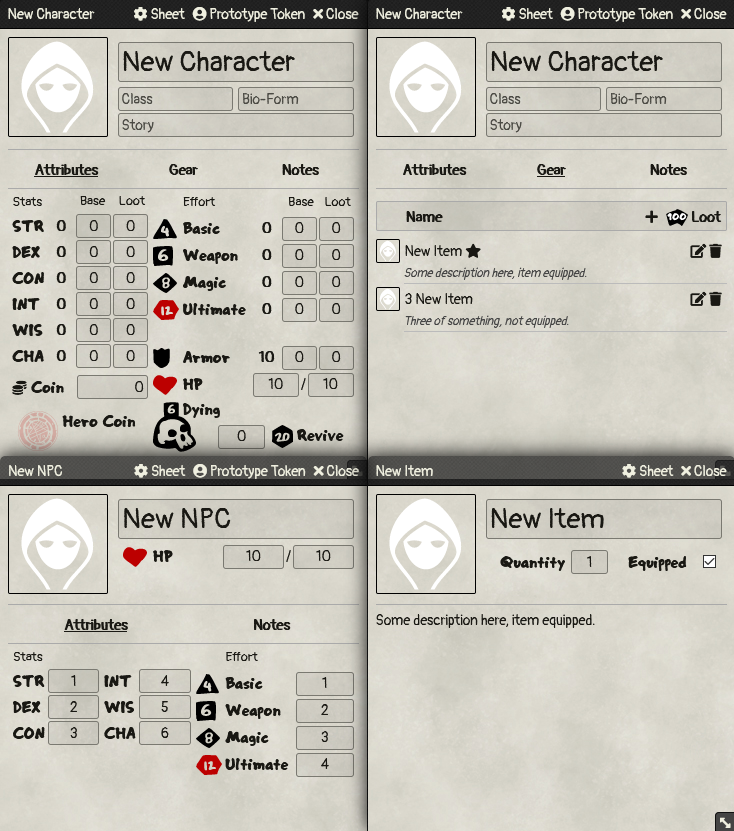
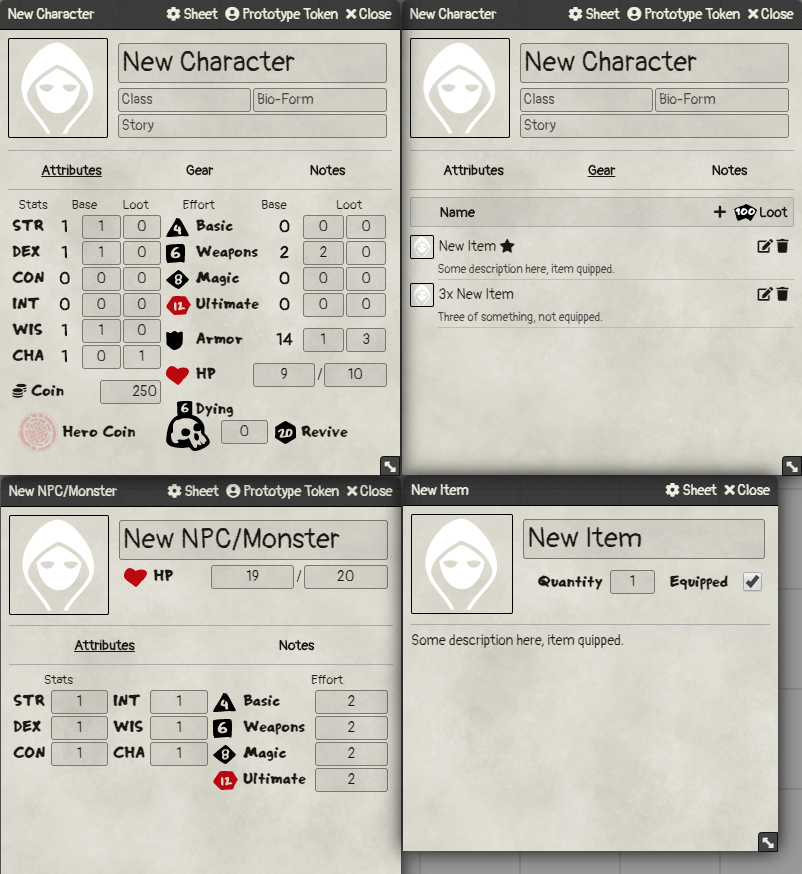
Changed minimum actor sheet width to 400 to fit translations

Changed region(s): [[0.0, 0.0, 1.0, 1.0]]

diff --git a/templates/actor/character-sheet.html b/templates/actor/character-sheet.html
@@ -1,4 +1,4 @@
-<form class="{{cssClass}} type-character" autocomplete="off">
+<form class="{{cssClass}} character-form" autocomplete="off">
 
     {{!-- Sheet Header --}}
     <header class="sheet-header">
@@ -33,7 +33,7 @@
                 <div class="resources">
 
                     {{!-- Header --}}
-                    <div class="resource stat resource-header">
+                    <div class="resource resource-header">
                         <span class="header">{{localize "ICRPG.Stats"}}</span>
                         <span class="header">{{localize "ICRPG.Base"}}</span>
                         <span class="header">{{localize "ICRPG.Loot"}}</span>
@@ -59,13 +59,13 @@
                     {{/each}}
 
                     {{!-- Header --}}
-                    <div class="resource health resource-header">
-                        <span class="header"></span> <!--{{localize "ICRPG.Coin"}}-->
+                    <div class="resource resource-header">
+                        <span class="header"><!--{{localize "ICRPG.Resources"}}--></span>
                     </div>
 
                     {{!-- Coin --}}
                     <div class="resource coin">
-                        <label for="data.coin.value" class="resource-label"><!--<i class="fa fa-coins"></i>-->
+                        <label for="data.coin.value" class="resource-label"><i class="fa fa-coins"></i>
                             {{localize "ICRPG.Coin"}}</label>
                         <input type="text" name="data.coin.value" value="{{data.coin.value}}" data-dtype="Number" />
                     </div>
@@ -82,27 +82,10 @@
                 <div class="resources">
 
                     {{!-- Header --}}
-                    <div class="resource armor resource-header">
-                        <span class="header"></span> <!--{{localize "ICRPG.Armor"}}-->
+                    <div class="resource resource-header">
+                        <span class="header">{{localize "ICRPG.Effort"}}</span>
                         <span class="header">{{localize "ICRPG.Base"}}</span>
                         <span class="header">{{localize "ICRPG.Loot"}}</span>
-                    </div>
-
-                    {{!-- Armor --}}
-                    <div class="resource armor">
-                        <label for="data.armor.value" class="resource-label"> {{localize "ICRPG.Armor"}} </label>
-                        <div class="resource-content flexrow flex-center flex-between">
-                            <span class="value">{{data.armor.value}}</span>
-                            <input type="text" name="data.armor.base" value="{{data.armor.base}}" data-dtype="Number" />
-                            <input type="text" name="data.armor.loot" value="{{data.armor.loot}}" data-dtype="Number" />
-                        </div>
-                    </div>
-
-                    {{!-- Header --}}
-                    <div class="resource effort resource-header">
-                        <span class="header">{{localize "ICRPG.Effort"}}</span>
-                        <span class="header"></span> <!--{{localize "ICRPG.Base"}}-->
-                        <span class="header"></span> <!--{{localize "ICRPG.Loot"}}-->
                     </div>
 
                     {{!-- Effort --}}
@@ -125,8 +108,23 @@
                     {{/each}}
 
                     {{!-- Header --}}
-                    <div class="resource health resource-header">
-                        <span class="header"></span> <!--{{localize "ICRPG.Health"}}-->
+                    <div class="resource resource-header">
+                        <span class="header"><!--{{localize "ICRPG.Armor"}}--></span>
+                    </div>
+
+                    {{!-- Armor --}}
+                    <div class="resource armor">
+                        <label for="data.armor.value" class="resource-label"> {{localize "ICRPG.Armor"}} </label>
+                        <div class="resource-content flexrow flex-center flex-between">
+                            <span class="value">{{data.armor.value}}</span>
+                            <input type="text" name="data.armor.base" value="{{data.armor.base}}" data-dtype="Number" />
+                            <input type="text" name="data.armor.loot" value="{{data.armor.loot}}" data-dtype="Number" />
+                        </div>
+                    </div>
+
+                    {{!-- Header --}}
+                    <div class="resource resource-header">
+                        <span class="header"><!--{{localize "ICRPG.Health"}}--></span>
                     </div>
 
                     {{!-- HP --}}
@@ -140,6 +138,11 @@
                         </div>
                     </div>
 
+                    {{!-- Header --}}
+                    <div class="resource resource-header">
+                        <span class="header"><!--{{localize "ICRPG.Death"}}--></span>
+                    </div>
+                    
                     {{!-- Death --}}
                     <div class="resource death">
                         <label for="data.dying.value" class="resource-label rollable" data-roll='1d6'
@@ -189,7 +192,7 @@
                     </div>
                 </li>
                 <li class="item-description flexrow">
-                    <span>{{preview item.data.description 125}}</span>
+                    <span>{{preview item.data.description 150}}</span>
                 </li>
                 {{/each}}
             </ol>

diff --git a/css/icrpg.css b/css/icrpg.css
@@ -146,45 +146,39 @@ input::-moz-selection {
 }
 
 /* Styles limited to icrpg sheets */
-.icrpg .item-form {
-  font-family: "Pangolin", cursive;
-}
-
 .icrpg .window-content {
   overflow: hidden;
 }
 
-.icrpg.sheet {
-  min-width: 375px;
-}
-
 .icrpg.sheet.actor {
+  min-width: 400px;
   min-height: 475px;
-  /*type-character: 480px; type-pc: 350px;*/
+  /*character-form: 475px; npc-form: 375px;*/
 }
 
-.icrpg.sheet.actor .type-character .attributes-content .resources:first-child {
+.icrpg.sheet.actor .character-form .attributes-content .resources:first-child {
   -webkit-box-flex: 1;
       -ms-flex: 1 0 40%;
           flex: 1 0 40%;
 }
 
-.icrpg.sheet.actor .type-npc .attributes-content .resources:nth-child(1),
-.icrpg.sheet.actor .type-npc .attributes-content .resources:nth-child(2) {
+.icrpg.sheet.actor .npc-form .attributes-content .resources:nth-child(1),
+.icrpg.sheet.actor .npc-form .attributes-content .resources:nth-child(2) {
   -webkit-box-flex: 1;
       -ms-flex: 1 0 26%;
           flex: 1 0 26%;
 }
 
 .icrpg.sheet.item {
-  min-height: 275px;
+  min-width: 375px;
+  min-height: 375px;
 }
 
-.icrpg.sheet.item .type-item .sheet-body {
+.icrpg.sheet.item .item-form .sheet-body {
   border-top: 1px solid #aaa;
 }
 
-.icrpg.sheet.item .type-item .sheet-tabs {
+.icrpg.sheet.item .item-form .sheet-tabs {
   display: none;
 }
 
@@ -367,8 +361,8 @@ input::-moz-selection {
 
 .icrpg .resource.coin > .resource-label {
   -webkit-box-flex: 1;
-      -ms-flex: 1 0 75px;
-          flex: 1 0 75px;
+      -ms-flex: 1 0 85px;
+          flex: 1 0 85px;
 }
 
 .icrpg .resource.coin input {
@@ -473,7 +467,7 @@ input::-moz-selection {
 }
 
 .icrpg .resource.herocoin {
-  margin-top: 10px;
+  margin-top: 6px;
 }
 
 .icrpg .resource.herocoin .label {
@@ -594,7 +588,7 @@ input::-moz-selection {
 
 .icrpg .items-list .item-name:hover .hidden {
   display: inline;
-  color: #aaa;
+  color: #777;
 }
 
 .icrpg .items-list .item-controls {
@@ -626,4 +620,5 @@ input::-moz-selection {
   font-size: smaller;
   color: #444;
   margin-left: 28px;
+  overflow: hidden;
 }

diff --git a/templates/actor/npc-sheet.html b/templates/actor/npc-sheet.html
@@ -1,4 +1,4 @@
-<form class="{{cssClass}} type-npc" autocomplete="off">
+<form class="{{cssClass}} npc-form" autocomplete="off">
 
     {{!-- Sheet Header --}}
     <header class="sheet-header">
@@ -34,7 +34,7 @@
                 <div class="resources">
 
                     {{!-- Header --}}
-                    <div class="resource stat resource-header">
+                    <div class="resource resource-header">
                         <span class="header">{{localize "ICRPG.Stats"}}</span>
                     </div>
 
@@ -71,7 +71,7 @@
                 <div class="resources">
 
                     {{!-- Header --}}
-                    <div class="resource stat resource-header">
+                    <div class="resource resource-header">
                         <span class="header">&nbsp;</span>
                     </div>
 
@@ -108,7 +108,7 @@
                 <div class="resources">
 
                     {{!-- Header --}}
-                    <div class="resource effort resource-header">
+                    <div class="resource resource-header">
                         <span class="header">{{localize "ICRPG.Effort"}}</span>
                     </div>
 

diff --git a/scss/components/_forms.scss b/scss/components/_forms.scss
@@ -1,29 +1,26 @@
-.item-form {
-  font-family: $font-primary;
-}
-
 .window-content {
   overflow: hidden;
 }
 
 &.sheet {
-  min-width: 375px;
   &.actor {
-    min-height: 475px; /*type-character: 480px; type-pc: 350px;*/
-    .type-character .attributes-content .resources:first-child {
+    min-width: 400px;
+    min-height: 475px; /*character-form: 475px; npc-form: 375px;*/
+    .character-form .attributes-content .resources:first-child {
       flex: 1 0 40%;
     }
-    .type-npc .attributes-content .resources:nth-child(1),
-    .type-npc .attributes-content .resources:nth-child(2) {
+    .npc-form .attributes-content .resources:nth-child(1),
+    .npc-form .attributes-content .resources:nth-child(2) {
       flex: 1 0 26%;
     }
   }
   &.item {
-    min-height: 275px;
-    .type-item .sheet-body {
+    min-width: 375px;
+    min-height: 375px;
+    .item-form .sheet-body {
       border-top: 1px solid #aaa;
     }
-    .type-item .sheet-tabs {
+    .item-form .sheet-tabs {
       display: none;
     }
   }

diff --git a/module/actor/character-sheet.js b/module/actor/character-sheet.js
@@ -11,7 +11,7 @@ export class IcrpgCharacterSheet extends ActorSheet {
     return mergeObject(super.defaultOptions, {
       classes: ["icrpg", "sheet", "actor"],
       template: "systems/icrpg/templates/actor/character-sheet.html",
-      width: 375,
+      width: 400,
       height: 475,
       tabs: [{ navSelector: ".sheet-tabs", contentSelector: ".sheet-body", initial: "attributes" }],
       dragDrop: [{ dragSelector: ".item-list .item", dropSelector: null }]

diff --git a/module/actor/npc-sheet.js b/module/actor/npc-sheet.js
@@ -11,7 +11,7 @@ export class IcrpgNpcSheet extends ActorSheet {
     return mergeObject(super.defaultOptions, {
       classes: ["icrpg", "sheet", "actor"],
       template: "systems/icrpg/templates/actor/npc-sheet.html",
-      width: 375,
+      width: 400,
       height: 475,
       tabs: [{ navSelector: ".sheet-tabs", contentSelector: ".sheet-body", initial: "attributes" }],
     });

diff --git a/module/item/item-sheet.js b/module/item/item-sheet.js
@@ -10,7 +10,7 @@ export class IcrpgItemSheet extends ItemSheet {
       classes: ["icrpg", "sheet", "item"],
       template: "systems/icrpg/templates/item/item-sheet.html",
       width: 375,
-      height: 275,
+      height: 375,
       tabs: [{ navSelector: ".sheet-tabs", contentSelector: ".sheet-body", initial: "description" }]
     });
   }

diff --git a/scss/components/_resource.scss b/scss/components/_resource.scss
@@ -65,7 +65,7 @@
   }
 
   &.coin > .resource-label {
-    flex: 1 0 75px;
+    flex: 1 0 85px;
   }
   &.coin input {
     text-align: right;
@@ -151,7 +151,7 @@
   }
 
   &.herocoin {
-    margin-top: 10px;
+    margin-top: 6px;
     .label {
       flex: 1;
     }

diff --git a/scss/components/_items.scss b/scss/components/_items.scss
@@ -41,7 +41,7 @@
     &:hover {
       .hidden {
         display: inline;
-        color: #aaa;
+        color: #777;
       }
     }
   }
@@ -71,5 +71,6 @@
     font-size: smaller;
     color: $c-detail;
     margin-left: 28px;
+    overflow: hidden;
   }
 }

diff --git a/templates/item/item-sheet.html b/templates/item/item-sheet.html
@@ -1,4 +1,4 @@
-<form class="{{cssClass}} type-item" autocomplete="off">
+<form class="{{cssClass}} item-form" autocomplete="off">
 
     {{!-- Sheet Header --}}
     <header class="sheet-header">

diff --git a/README.md b/README.md
@@ -20,13 +20,6 @@ To highlight some of its **features** that might not be obvious at first glance:
 
 Items do not support attributes to be automatically added to the loot values of the character sheet, as it would be hard to differentiate between situations in which item bonuses are applicable and in which not. This is something users have to track themselves.
 
-## Improvements
-
-Planned **future** improvements include:
-- adding support for scene Target Numbers (TN) and Timers
-- adding optional Stun and Supply attributes
-- adding more translations
-
 ## Installation
 
 In Foundry VTT, use the following **Manifest URL** to install the game system:
@@ -38,7 +31,7 @@ https://raw.githubusercontent.com/TomCosaert/FoundryVTT-ICRPG/master/system.json
 
 I acquired **permission** from the author/designer Brandish Gilhelm (also known as Hankerin Ferinale) of [Runehammer Games](https://www.runehammer.online/) to make this game system available to the Foundry VTT community as-is, but without including any source material content such as item loot tables as compendia.
 
-Thanks to Diego Martinez for the Spanish translations!
+Thanks to Diego Martinez for the Spanish localization!
 
 ## Links
 

diff --git a/CHANGELOG.md b/CHANGELOG.md
@@ -2,12 +2,13 @@
 
 ## [Unreleased]
 
-## [1.0.1] - 2020-07-05
+## [1.0.1] - 2020-07-06
 ### Added
 - Added Spanish localization (thanks to Diego Martinez)
 - Added missing glyphs for Spanish to 'nusaliver' font
 ### Changed
 - Updated Foundry VTT core compatibility version to 0.6.5
+- Changed minimum actor sheet width to 400 to fit translations
 - Changed quantity representation of items to avoid pluralization issues
 ### Fixed
 - Fixed undesired scroll bar in item list header
